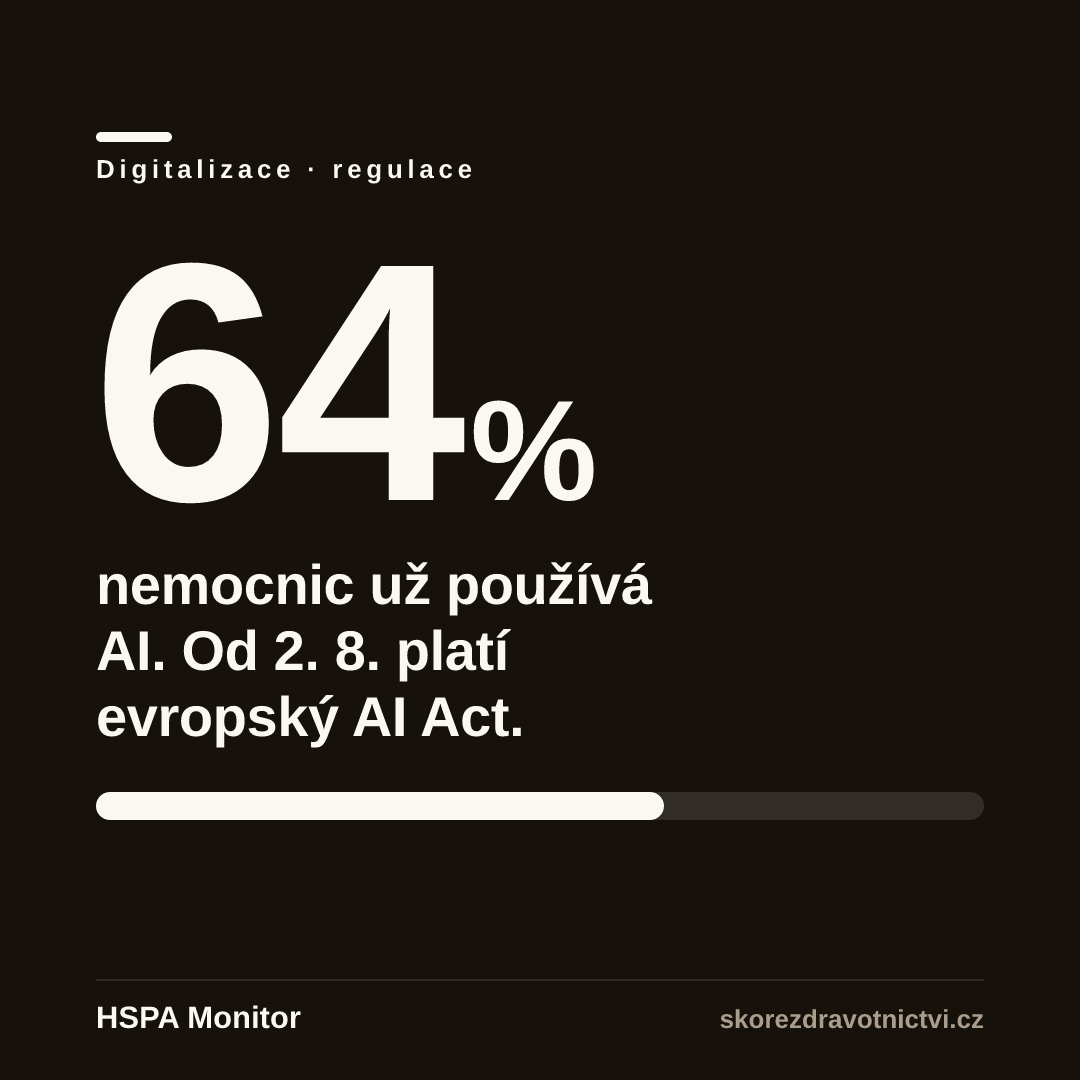
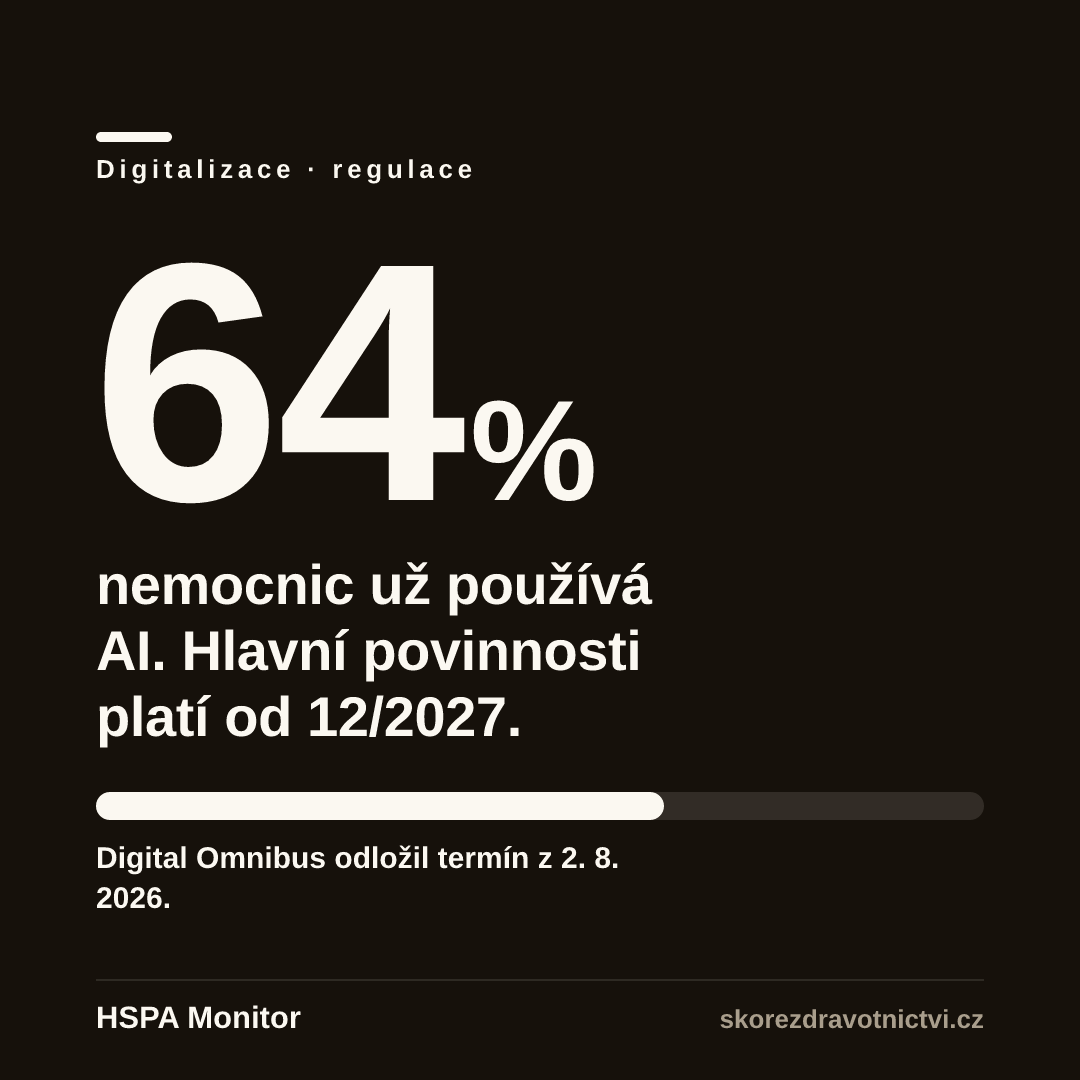
feat(social): karty pro onkochirurgii a syfilis, oprava karty AI Actu
Dva nejčerstvější publikované články neměly stat-hero karty, takže je
sociální rutina nemohla zařadit do fronty (podle PROMPT_SOCIAL_ROUTINE.md
patří do fronty tmavá karta, ne světlý web-cover):

- clanek-centralizace-onkochirurgie-2030 (4 109 operací se do roku 2030
  přesune do center, ze 17 096 ročních výkonů) — topical_until 2026-09-08
- clanek-syfilis-navrat (1 239 případů syfilis v roce 2025, nejvíc od
  roku 2001; 11,4 na 100 tisíc obyvatel)

Karta AI Actu tvrdila „Od 2. 8. platí evropský AI Act“ — článek má ale
v aktualizaci odklad hlavních povinností na 2. 12. 2027 (Nařízení EU
2026/1744, Digital Omnibus). Claim srovnán s textem článku a doplněn
kontext o odkladu; grafika by jinak šla do sítí s neplatným tvrzením.

Všechny tři slugy vygenerovány ve všech třech formátech: 1080×1080 pro
FB/IG feed, 1600×900 pro X, 1080×1920 pro Stories.

Claude-Session: https://claude.ai/code/session_01B4QmbqDtQehP284zjUBpR3

Changed region(s): [[0.0917, 0.5806, 0.6111, 0.7028], [0.0917, 0.7639, 0.4889, 0.8556], [0.5194, 0.7639, 0.5806, 0.825]]

diff --git a/05_M1_Starter/scripts/generate-ig-cards.js b/05_M1_Starter/scripts/generate-ig-cards.js
@@ -99,6 +99,18 @@ const OUT_DIRS = {
 //   headline    — fallback bez čísla (velký serif nadpis).
 // Žádná nová čísla z paměti — vše vychází z dříve schválených headline.
 const MANIFEST = {
+  'clanek-centralizace-onkochirurgie-2030': {
+    kicker: 'Onkologie · centralizace', signal: 'neutral',
+    stat: '4 109',
+    claim: 'operací se do roku 2030 přesune do center.',
+    context: 'Ze 17 096 ročních výkonů. První vlna běží od 1. září.',
+  },
+  'clanek-syfilis-navrat': {
+    kicker: 'Prevence · pohlavní nemoci', signal: 'bad',
+    stat: '1 239',
+    claim: 'případů syfilis v roce 2025 — nejvíc od roku 2001.',
+    context: '11,4 na 100 tisíc obyvatel. Čtyři děti se narodily nakažené.',
+  },
   'clanek-amr-multirezistence-soubeh': {
     kicker: 'Kvalita péče · rezistence', signal: 'bad',
     stat: '26,6', statSuffix: '%', barPct: 27,
@@ -280,7 +292,8 @@ const MANIFEST = {
   'clanek-ai-act-zdravotnictvi-srpen-2026': {
     kicker: 'Digitalizace · regulace', signal: 'neutral',
     stat: '64', statSuffix: '%', barPct: 64,
-    claim: 'nemocnic už používá AI. Od 2. 8. platí evropský AI Act.',
+    claim: 'nemocnic už používá AI. Hlavní povinnosti platí od 12/2027.',
+    context: 'Digital Omnibus odložil termín z 2. 8. 2026.',
   },
   'clanek-nikez-jak-funguje-2026': {
     kicker: 'Kvalita péče',
